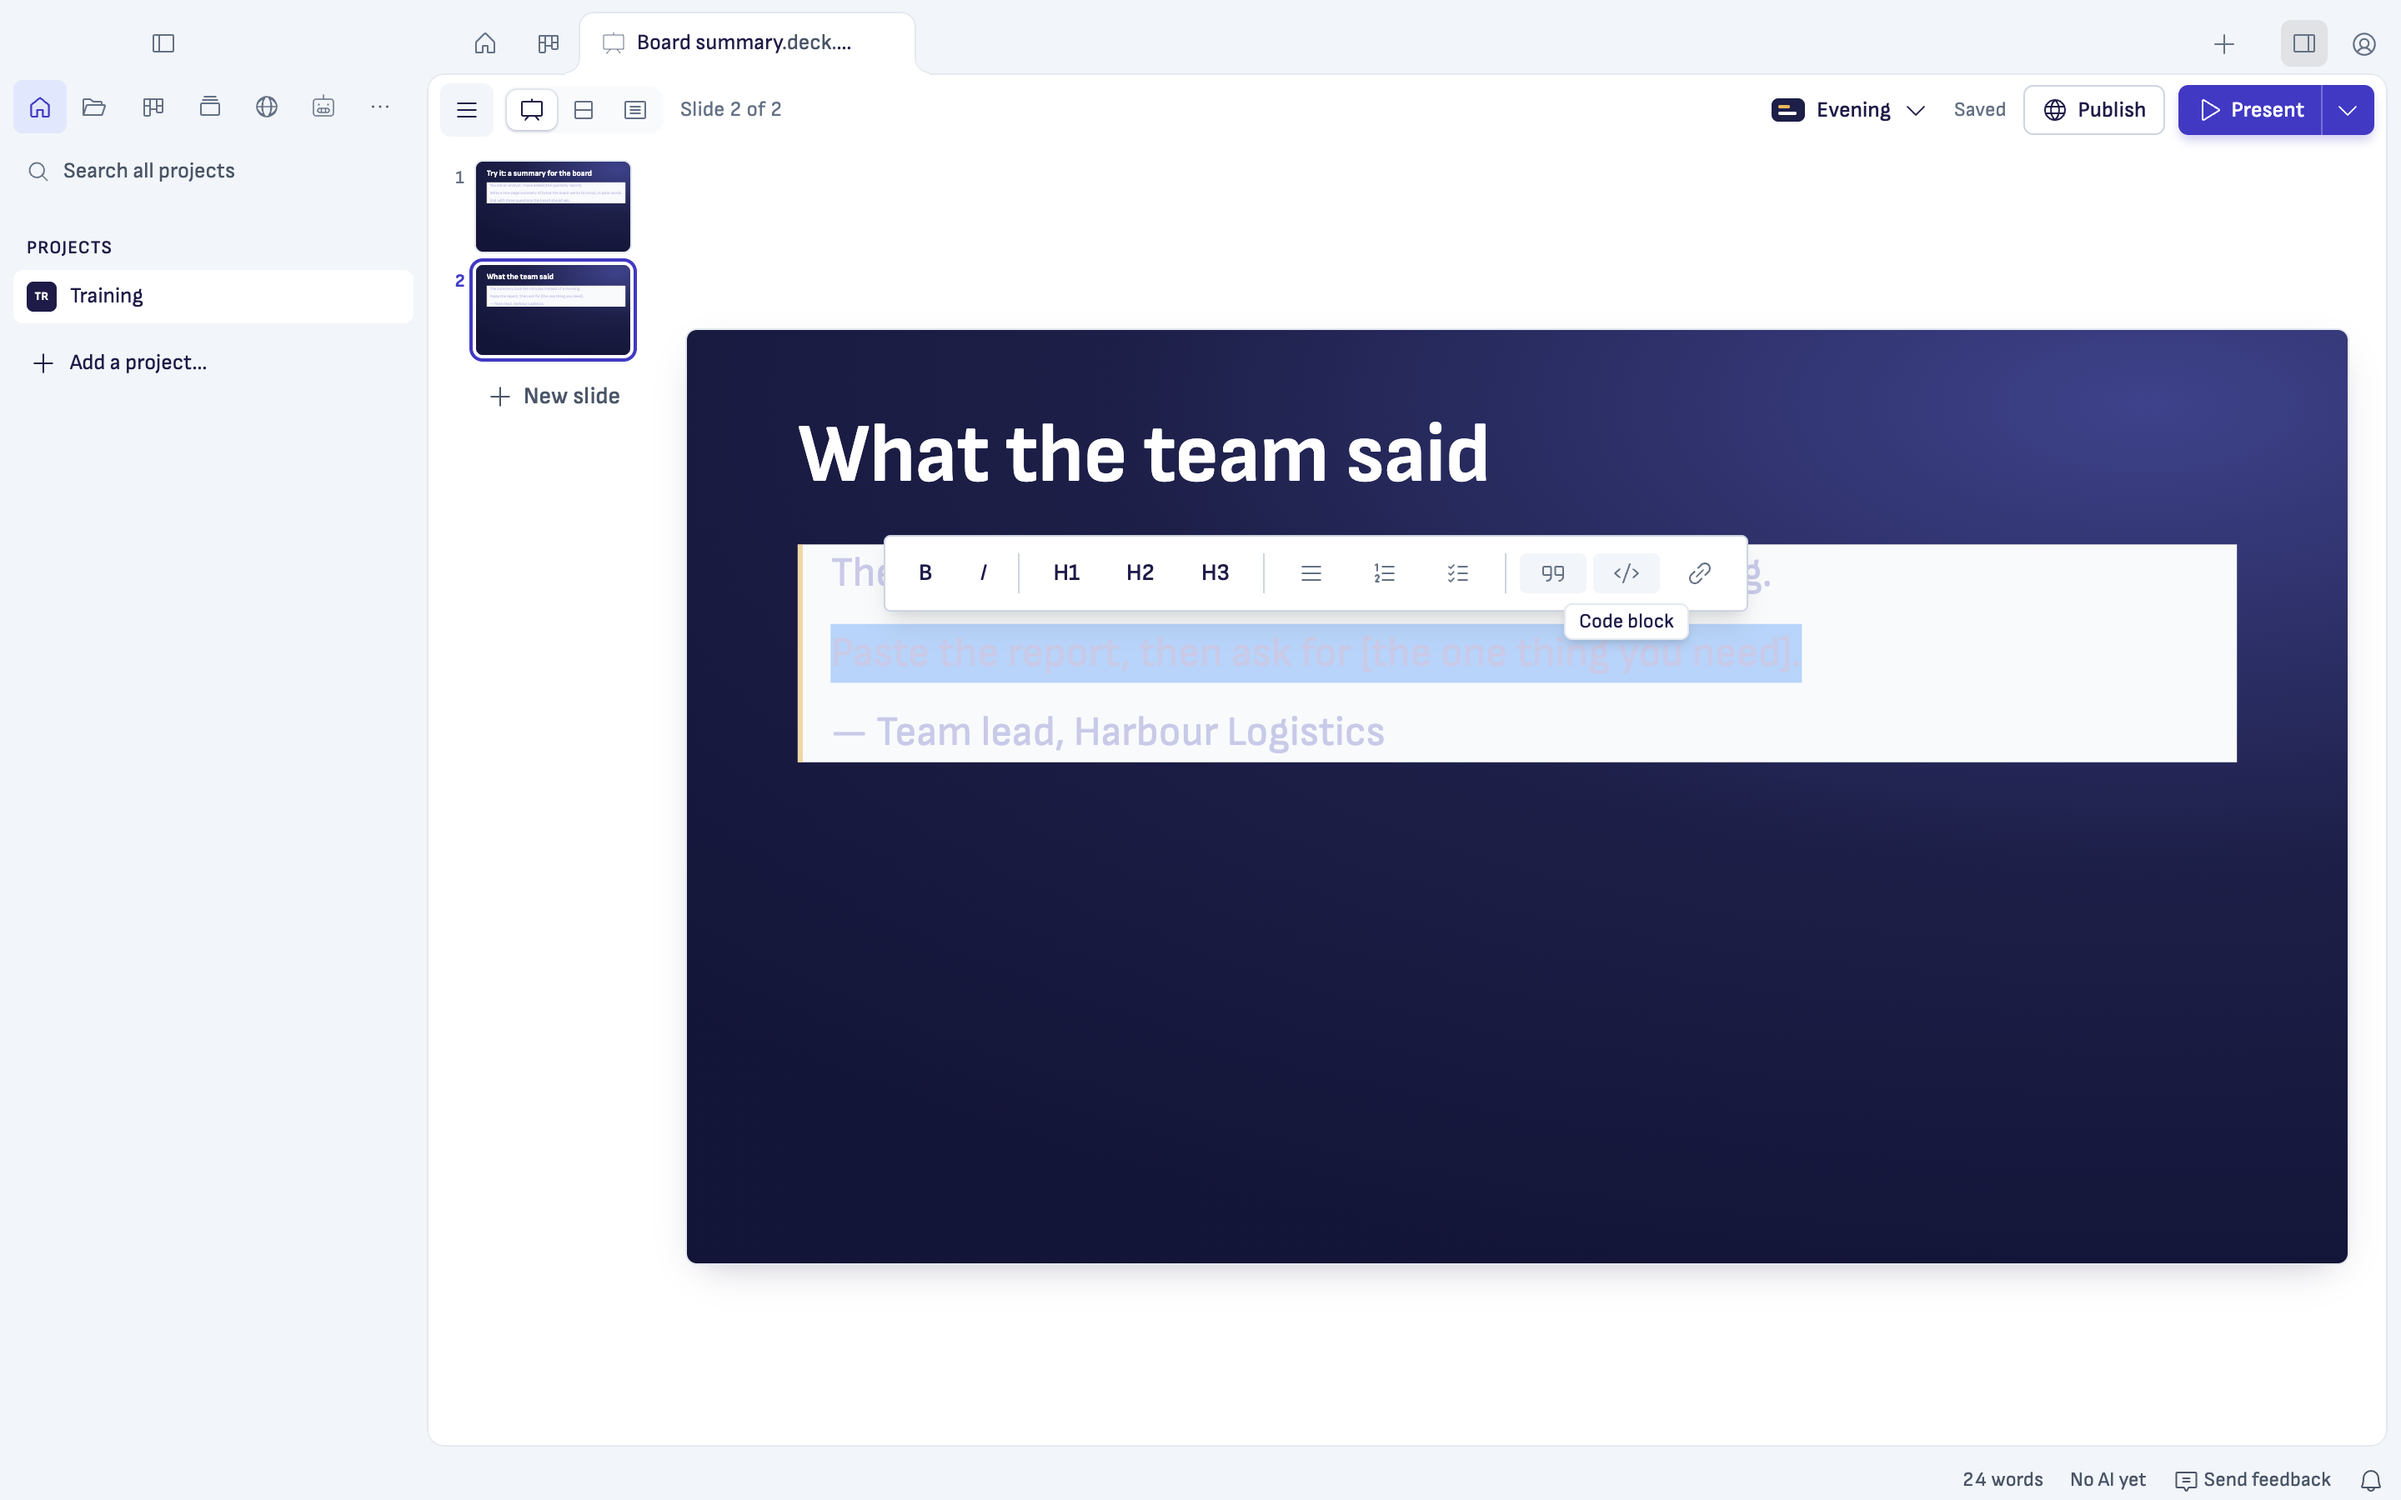
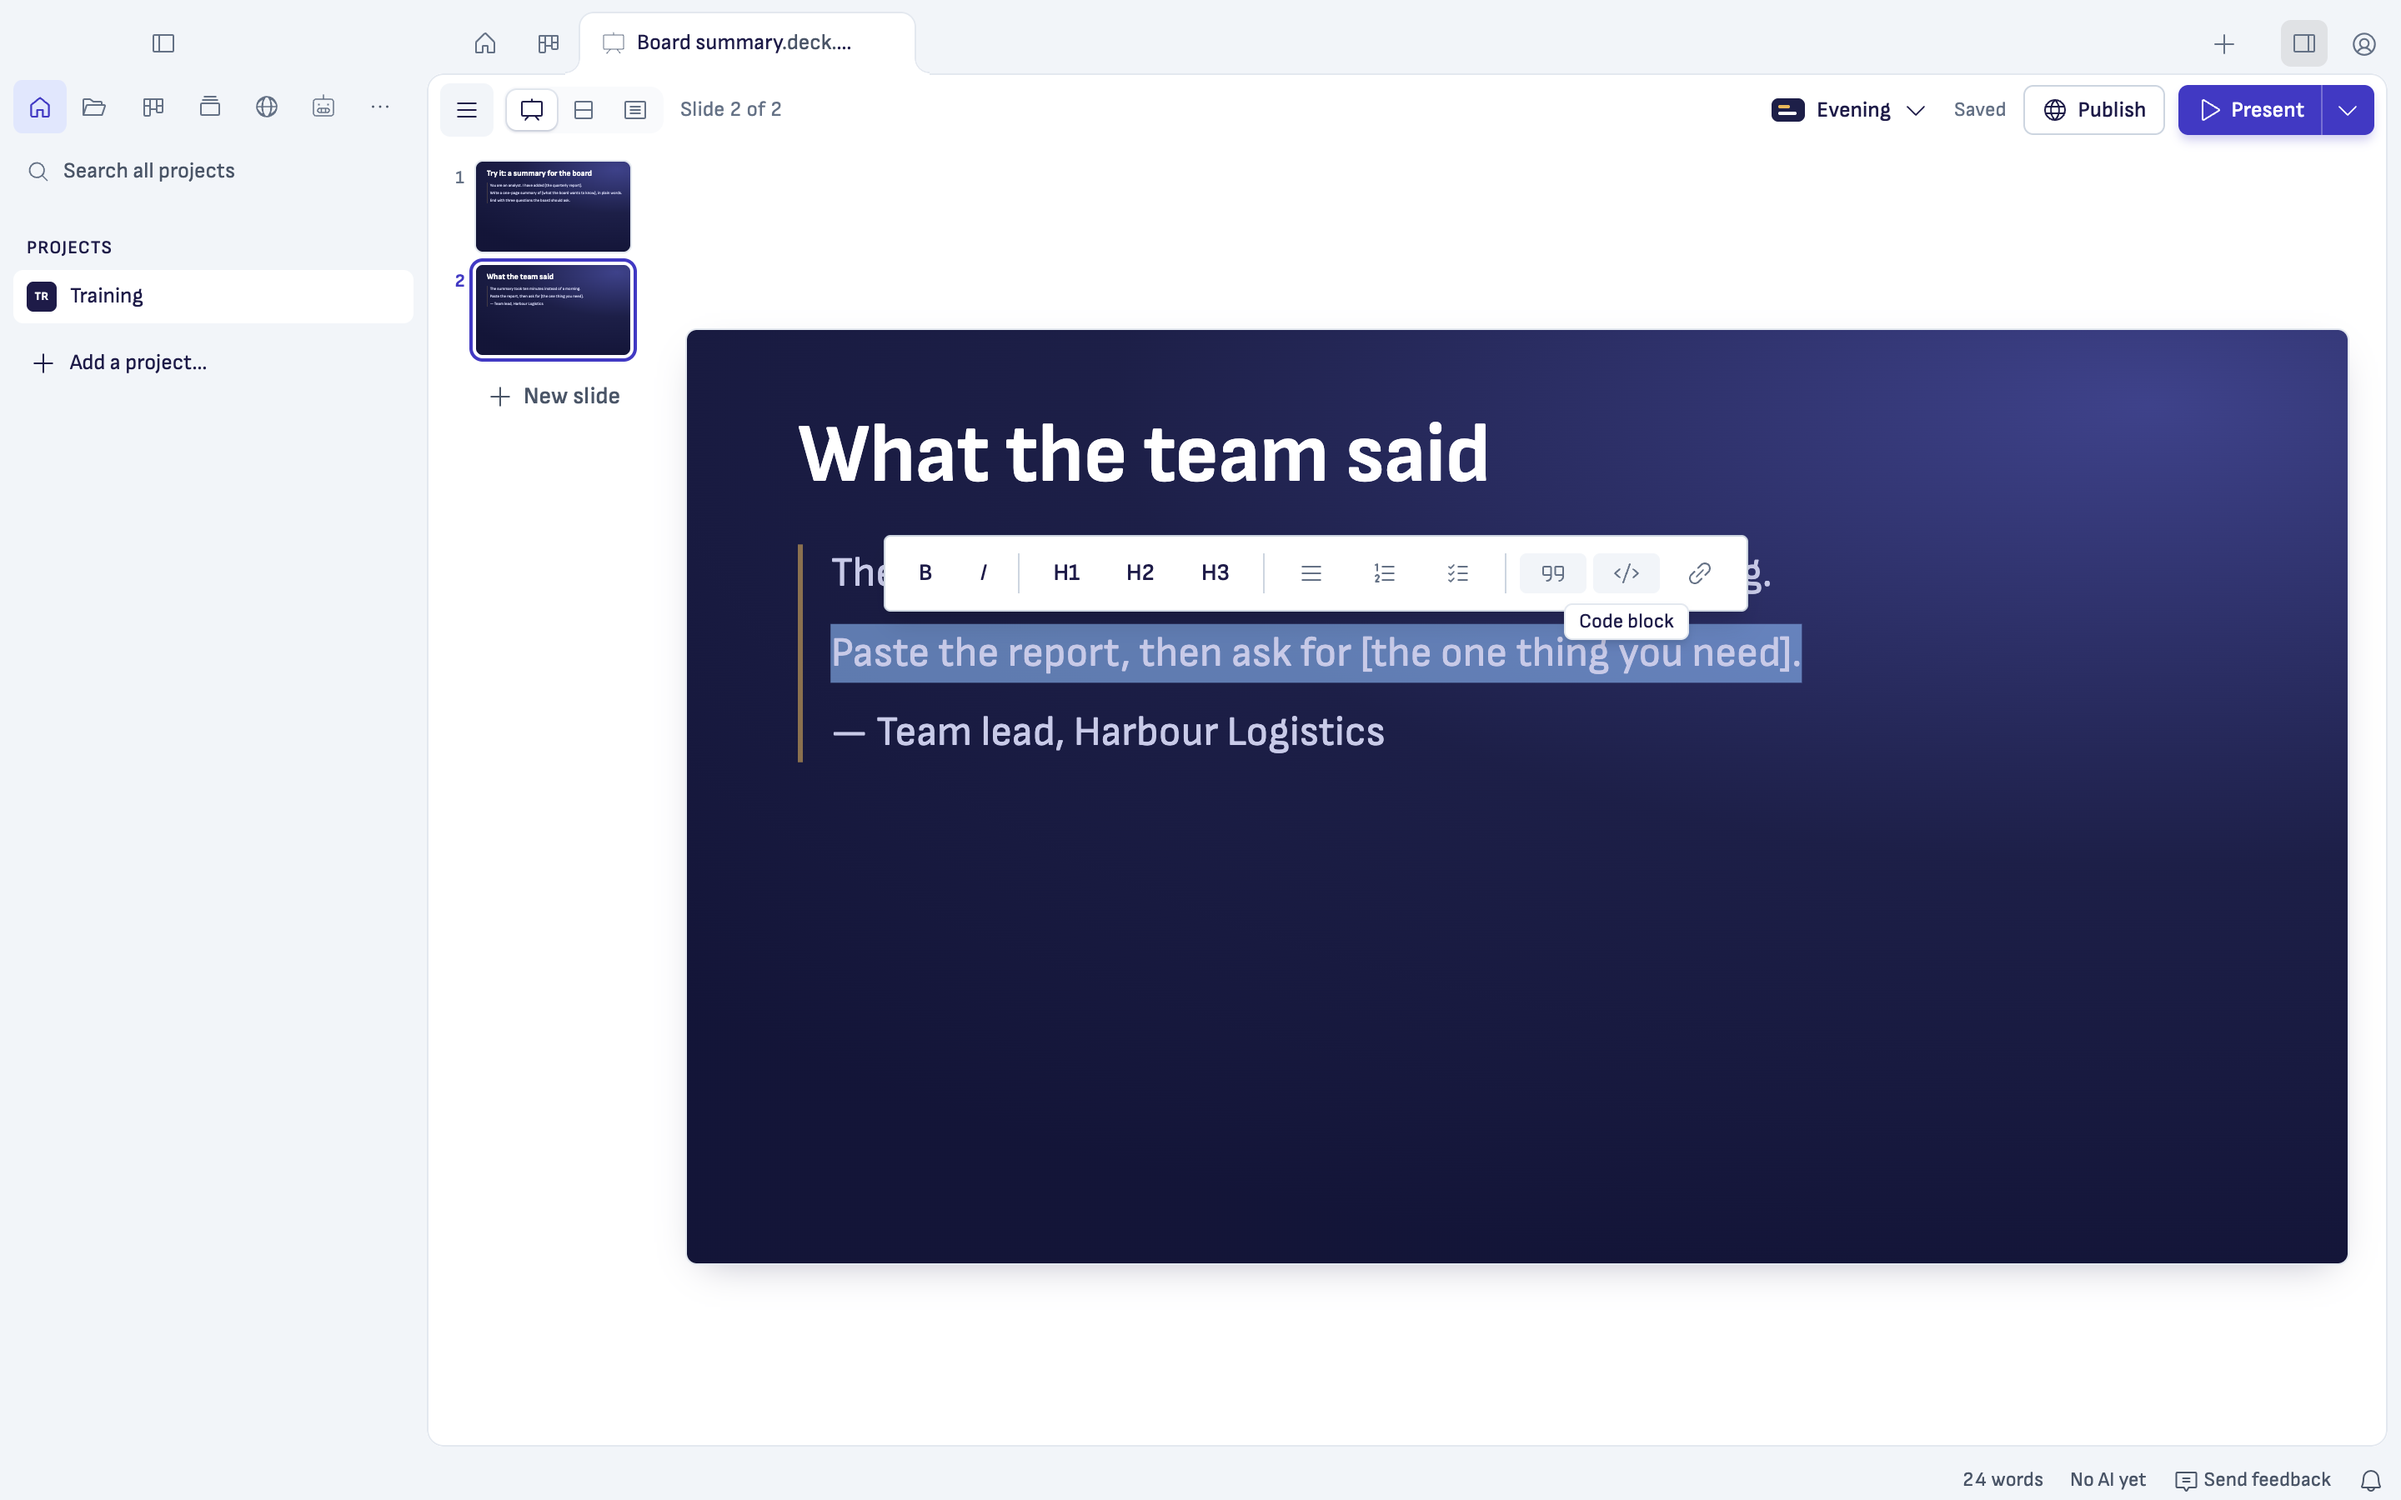
Sprint 168 PR 2: shots retaken after #852, the attribution with the words; last task ticked (#864)
One launch at 1440x900 on a synthetic deck, the quote without the leaked white
box: the whole quote before and after the bubble's Code block, and the middle
paragraph of a quote before and after, its attribution staying under the words
above the code block. One Cmd+Z after each gave the file back byte for byte.

Changed region(s): [[0.3125, 0.3422, 0.9375, 0.5289], [0.1875, 0.0933, 0.2812, 0.1556], [0.1875, 0.1867, 0.2812, 0.2178]]

diff --git a/docs/development/releases/v2.3.0/sprint-168-quotes-headings/tasks.md b/docs/development/releases/v2.3.0/sprint-168-quotes-headings/tasks.md
@@ -19,7 +19,7 @@ Gate: no code until Jarmo approves the plan, and each PR's branch `sprint-168-qu
 - [x] Bubble and / menu both; outside a quote unchanged
 - [x] Tests: each scenario in `scenarios.md`, including Undo
 - [x] Shots: the code block taken out of a quote, before and after (`proof/pr2-prompt-out-of-quote/`); the Experience lead's look follows
-- [ ] Release-notes line; PR Risk and How to revert; `REVIEW.md` review
+- [x] Release-notes line; PR Risk and How to revert; `REVIEW.md` review (High, three rounds: round three on the attribution commit, the Experience lead's 19 November rule)
 
 ## PR 3: heading levels, R3 (High), branch `sprint-168-quotes-headings-pr3`, after Sprint 164 PR 3 merges
 - [x] Issue created in milestone v2.3.0 (manager): #865: to be created
